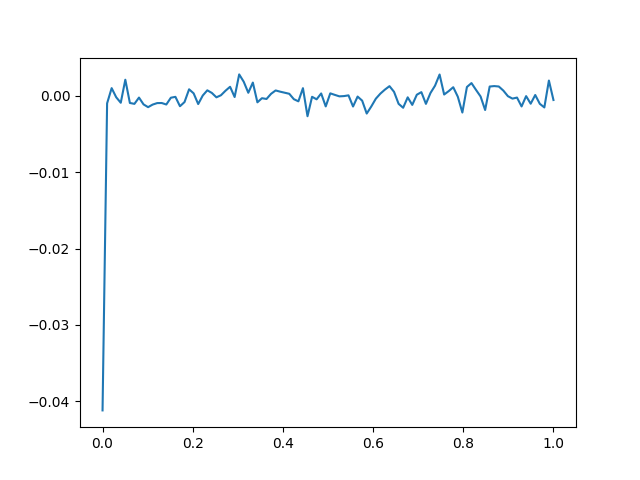
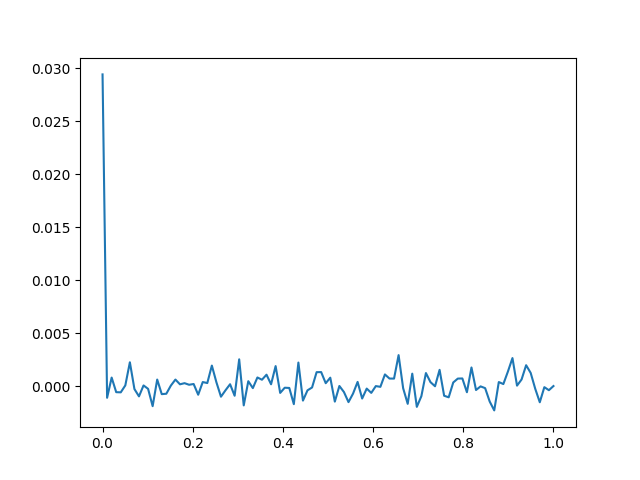
added plot

diff --git a/exercises_03/methods.py b/exercises_03/methods.py
@@ -250,3 +250,34 @@ def matern(x, b, tau_sq1, tau_sq2 ):
             cov_mat[i,j] = tau_sq1*np.exp(-.5*(np.linalg.norm([x1,x2])/b)**2)+tau_sq2*float(x1==x2)
     return cov_mat
 
+def matern52(x, b, tau_sq1, tau_sq2 ):
+
+    """
+
+    The matern 5/2 covariance function
+
+    Parameters
+    ----------
+    x : array_like
+        The points at which to evaluate the function
+    b : float
+        the first hyperparameter
+    tau_sq1: float
+        the second hype parameter
+    tau_sq2: float
+        the third hyperparameter
+
+    Returns
+    -------
+    cov_mat : array_like
+
+    """
+    cov_mat = np.zeros([len(x), len(x)])
+    sqrt5 = 5.0**.5
+    for i,x1 in enumerate(x):
+        for j,x2 in enumerate(x):
+            d = np.linalg.norm([x1,x2])
+            cov_mat[i,j] = tau_sq1*(1.0+sqrt5*d/b + 5*d**2/(3*b**2)) \
+                           *np.exp(-sqrt5*d/b)+ tau_sq2*float(x1==x2)
+
+    return cov_mat

diff --git a/exercises_03/gaussian_processes.py b/exercises_03/gaussian_processes.py
@@ -36,3 +36,7 @@ plt.savefig('increased_tau2')
 plt.close()
 
 
+C = matern52(x,10**-6,10**-6, 10**-6)
+plt.plot(x,np.random.multivariate_normal(mean,C))
+plt.savefig('matern52_case')
+plt.close()
